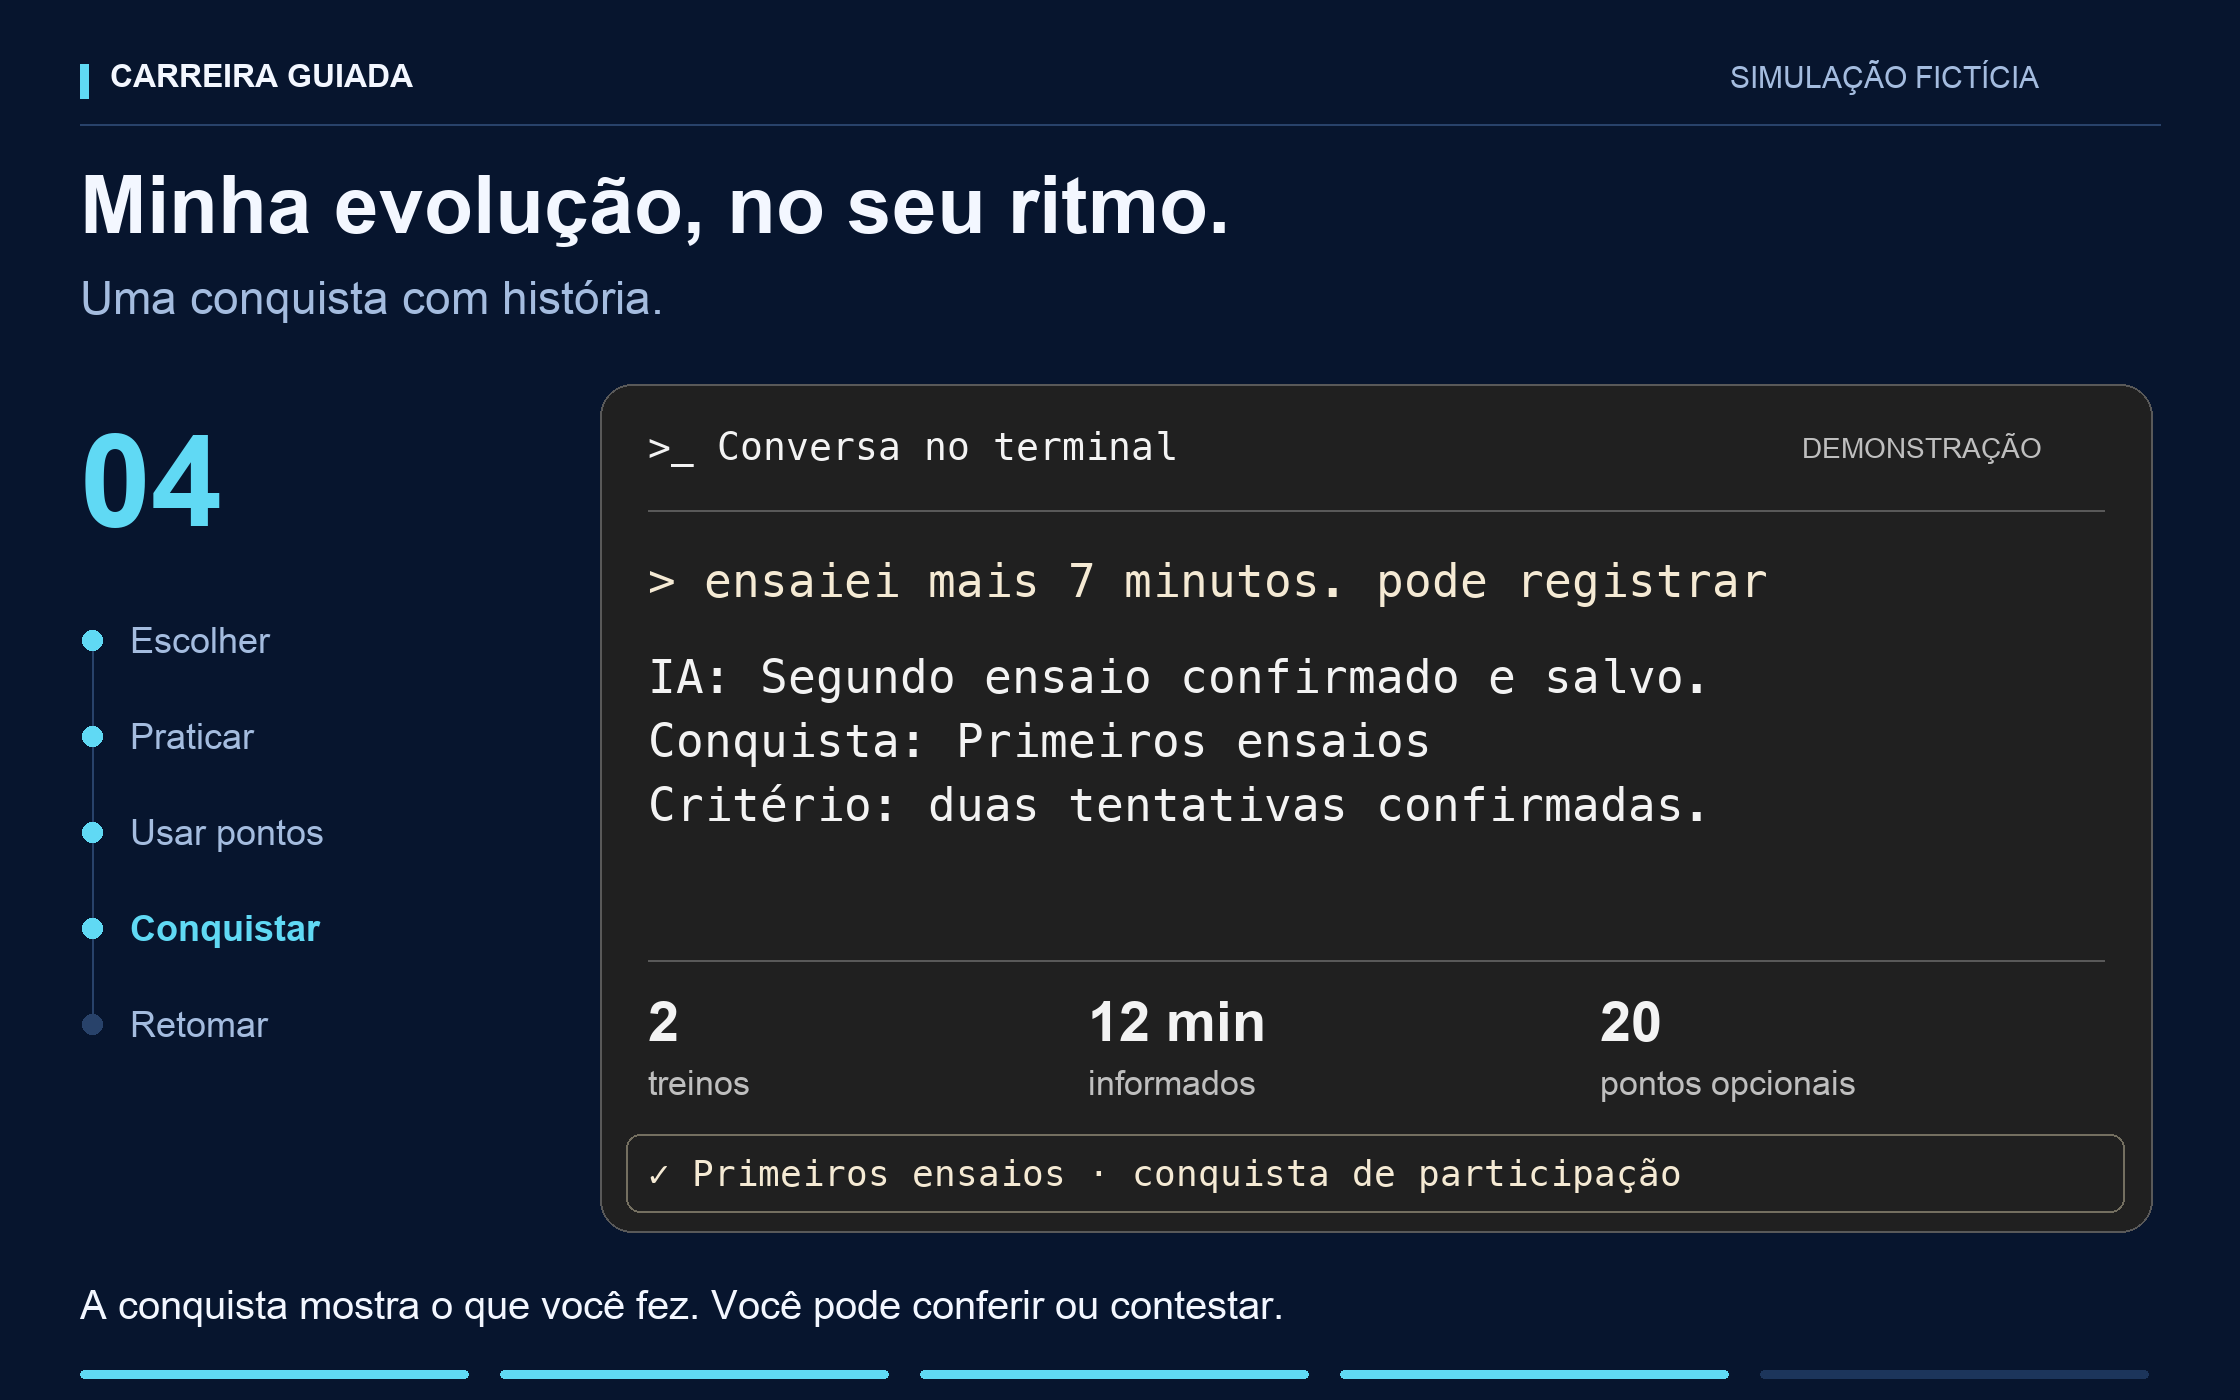
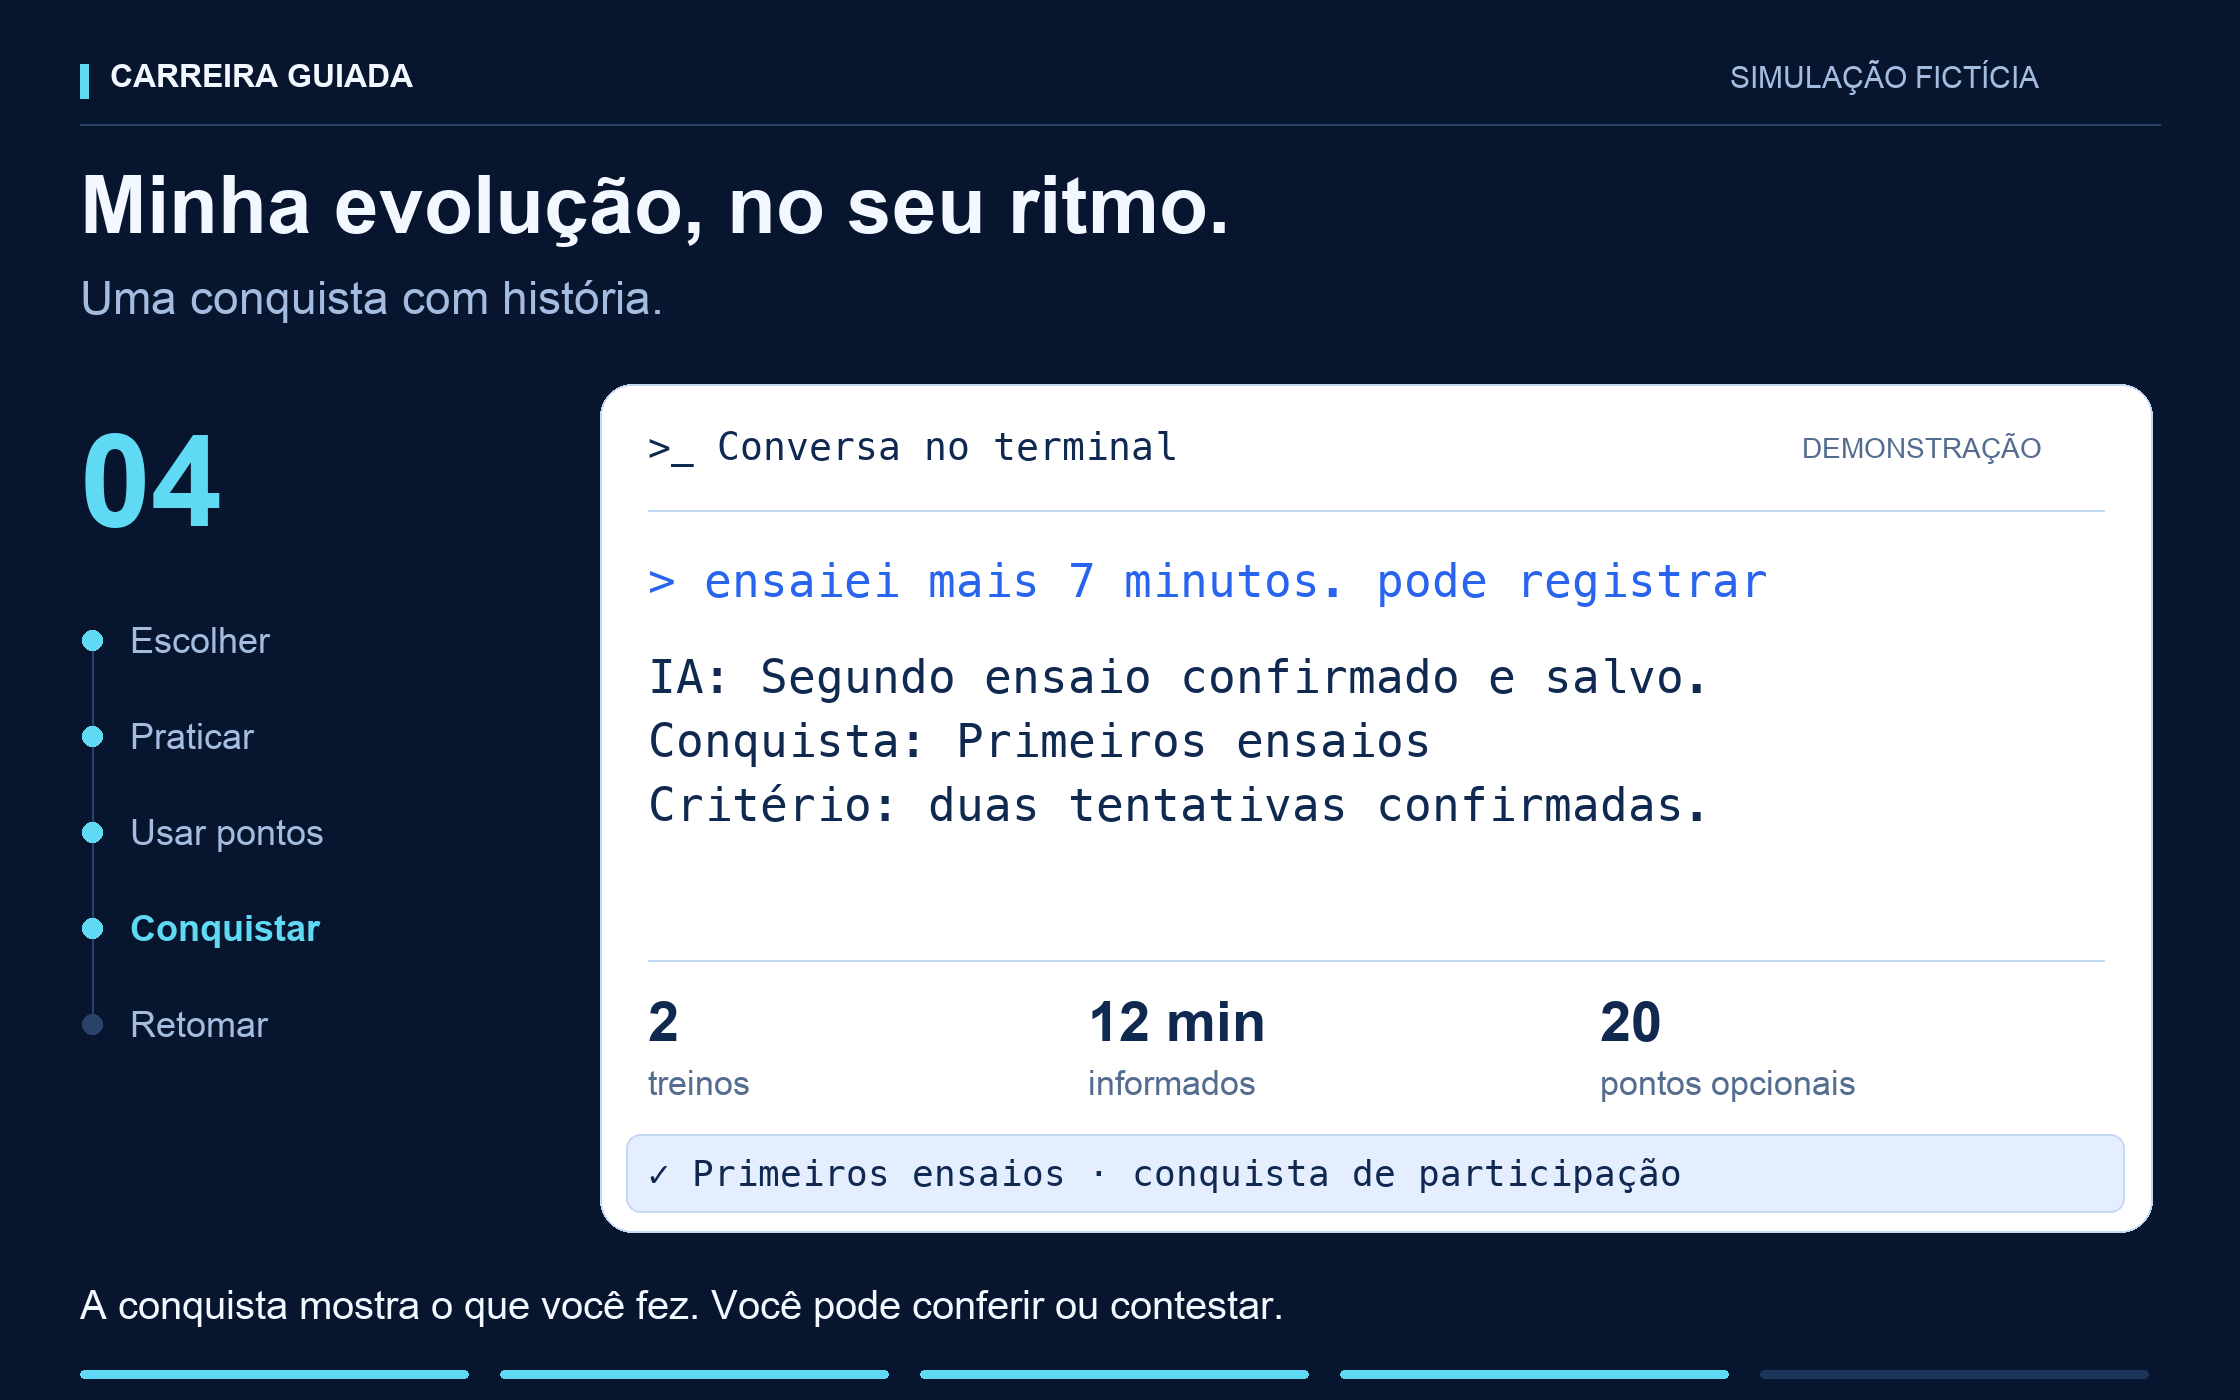
fix: use the white terminal palette

diff --git a/scripts/maintainers/render_evolution.py b/scripts/maintainers/render_evolution.py
@@ -15,13 +15,14 @@ from PIL import Image
 from scripts.job.personal_progress import PersonalProgress
 from scripts.job.practice import Practice
 from scripts.maintainers.render_docs import (
-    ACCENT, DIM, OUT, SCALE, TEXT, backdrop, coords, font, progress_track, text, wrap,
+    ACCENT, BLUE, DIM, INK, LINE, MUTED, OUT, PALE, SCALE, TEXT,
+    backdrop, coords, font, progress_track, text, wrap,
 )
 
 LABELS = ('Escolher', 'Praticar', 'Usar pontos', 'Conquistar', 'Retomar')
 NAME = 'minha-evolucao-demo'
-PANEL, PANEL_EDGE, PANEL_DIM = '#202020', '#595959', '#bfbfbf'
-PANEL_TEXT, REQUEST = '#f3f3f3', '#f5ead4'
+PANEL, PANEL_EDGE, PANEL_DIM = '#ffffff', LINE, MUTED
+PANEL_TEXT, REQUEST = INK, BLUE
 
 
 @dataclass(frozen=True)
@@ -111,7 +112,7 @@ def lines(draw, value, x, y, color, size=23, width=714, cursor=False):
             y += 32
     if cursor:
         right = x + draw.textlength(line, font=font(size, True)) / SCALE + 3
-        draw.rectangle(coords((right, y - 27, right + 2, y - 4)), fill=ACCENT)
+        draw.rectangle(coords((right, y - 27, right + 2, y - 4)), fill=BLUE)
     return y
 
 
@@ -128,9 +129,9 @@ def receipt(draw, state, amount, milestone):
         text(draw, (x, y + 37), label, 17, mix(PANEL_DIM, amount))
     if milestone:
         draw.rounded_rectangle(coords((313, 567, 1062, 606)), 7 * SCALE,
-                               outline=mix('#746f60', amount), width=SCALE)
+                               fill=mix(PALE, amount), outline=mix(LINE, amount), width=SCALE)
         text(draw, (324, 576), '✓ Primeiros ensaios · conquista de participação', 18,
-             mix('#f5ead4', amount), mono=True)
+             mix(INK, amount), mono=True)
 
 
 def frame(scene, index, request, response='', reveal=0, cursor=False):
@@ -195,8 +196,14 @@ def main():
             image.save(args.output / f'{NAME}-{i + 1}.png')
         print('Five completed scenes rendered; fictional records cleaned up.')
         return
-    # Full-size pixels retain the exact navy and cream; resized samples mix them.
+    # Full-size pixels retain the navy frame and white panel; resized samples mix them.
     palette = completed[3].quantize(colors=128)
+    # Merge near-white entries so the GIF's coarse lookup cannot tint pure white.
+    colors = palette.getpalette()
+    for offset in range(0, len(colors), 3):
+        if min(colors[offset:offset + 3]) >= 248:
+            colors[offset:offset + 3] = [255, 255, 255]
+    palette.putpalette(colors)
     frames, durations = [], []
     for image, duration in timeline(data):
         frames.append(image.quantize(palette=palette, dither=Image.Dither.NONE))

diff --git a/CHANGELOG.md b/CHANGELOG.md
@@ -12,7 +12,7 @@
 
 ### Correções
 
-- O terminal da demonstração usa grafite e texto claro, separado da moldura
+- O terminal da demonstração usa fundo branco e texto escuro, separado da moldura
   marinha, com digitação e pausas para leitura.
 - A geração de prévias exige um destino explícito fora da pasta de imagens
   publicadas, evitando incluir cenas intermediárias por engano.
